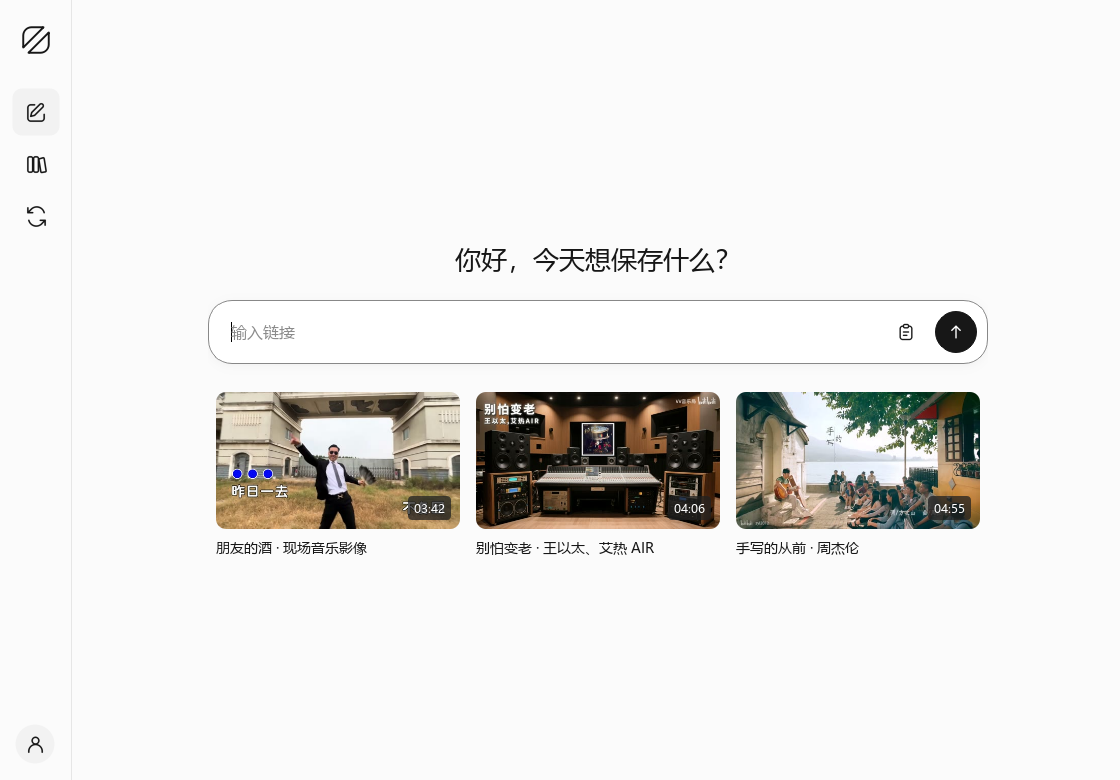
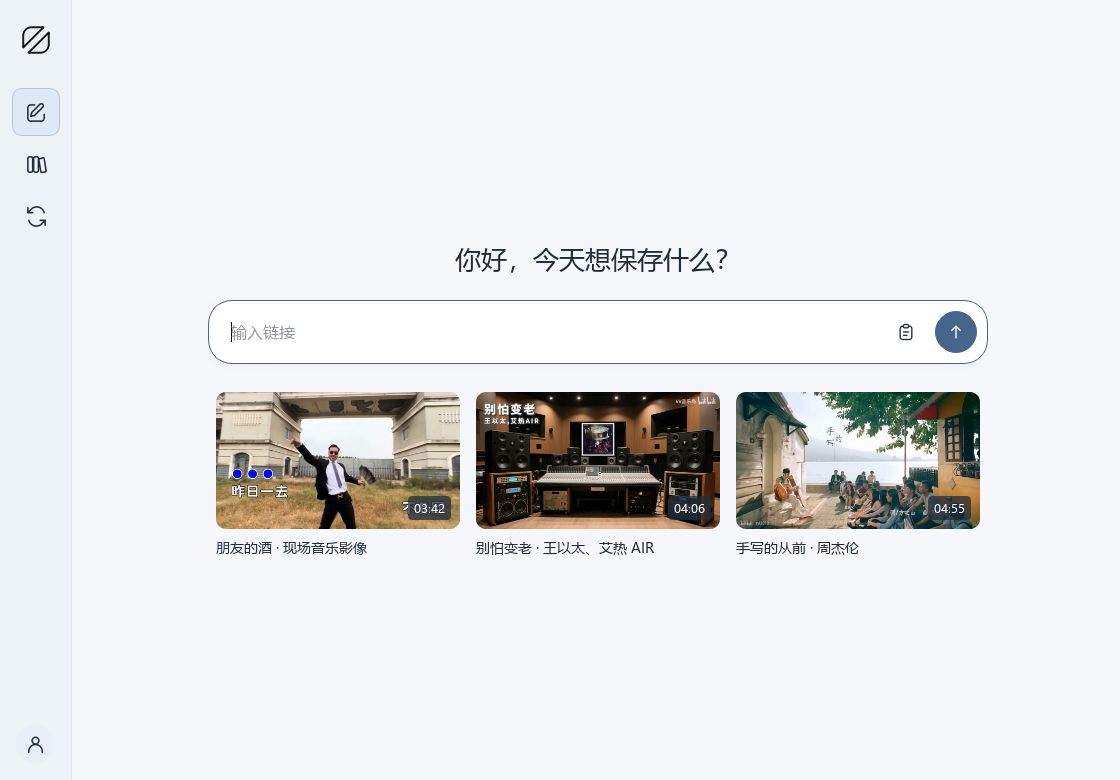
Release Windows 2.1.3 with blue-gray theme and aligned update controls

diff --git a/bilibili/ui_theme.py b/bilibili/ui_theme.py
@@ -8,16 +8,18 @@ from PySide6.QtSvg import QSvgRenderer
 
 ROOT = Path(__file__).resolve().parent
 COLORS = {
-    "background": "#fbfbfb", "sidebar_background": "#fbfbfb", "surface": "#ffffff",
-    "text": "#171717", "muted": "#696969", "subtle": "#757575",
-    "accent": "#171717", "accent_hover": "#333333", "accent_pressed": "#000000",
-    "border": "#e6e6e6", "hover": "#f2f2f2", "pressed": "#e8e8e8",
-    "tint": "#f0f0f0", "danger": "#262626", "danger_tint": "#f0f0f0",
-    "success": "#262626", "success_tint": "#f0f0f0",
-    "disabled": "#969696", "disabled_surface": "#f1f1f1",
-    "progress_track": "#eaeaea", "thumb": "#eeeeee", "video": "#151515",
-    "overlay": "#202020", "white": "#ffffff",
+    "background": "#f5f7fa", "sidebar_background": "#edf2f7", "surface": "#ffffff",
+    "text": "#202d3d", "muted": "#596b80", "subtle": "#66778b",
+    "accent": "#45658a", "accent_hover": "#365474", "accent_pressed": "#29425e",
+    "border": "#dce4ed", "hover": "#e9eff6", "pressed": "#d7e2ef",
+    "tint": "#dfe9f5", "danger": "#46576d", "danger_tint": "#e8edf3",
+    "success": "#426b66", "success_tint": "#e4f0ed",
+    "disabled": "#78889b", "disabled_surface": "#eaf0f5", "disabled_accent": "#91a3b8",
+    "progress_track": "#e2e9f1", "thumb": "#e6ecf3", "video": "#151b24",
+    "overlay": "#202d3d", "white": "#ffffff", "border_hover": "#b5c6da",
+    "scroll_thumb": "#b4c2d2", "scroll_hover": "#879db7",
 }
+
 SPACE = {"xs": 4, "sm": 8, "md": 12, "lg": 16, "xl": 20, "xxl": 24, "page": 32}
 METRICS = {
     "sidebar": 72, "page_inset": 40, "gap": SPACE["lg"],
@@ -43,7 +45,7 @@ RAIL = {"width": METRICS["sidebar"], "inset": 12, "top": 16, "bottom": 16,
         "title_fade": 16, "title_speed": 34, "title_pause_ms": 900, "title_gap": 48, "animation_ms": 33}
 UPDATE = {"dialog_width": 760, "dialog_height": 600, "dialog_min_width": 560,
           "dialog_min_height": 420, "scroll_gutter": 20, "notes_min_height": 120,
-          "notes_heading": 16, "notes_body": 14}
+          "notes_heading": 16, "notes_body": 14, "footer_font": 16}
 DIALOG = {"settings_width": 820, "settings_height": 680, "settings_min_width": 700,
           "settings_min_height": 560, "inset": 32, "search_width": 640, "search_height": 480,
           "search_min_width": 480, "search_min_height": 320, "search_row": 48}
@@ -65,7 +67,7 @@ def icon(name, color=None):
 
 
 def stylesheet():
-    values = {**COLORS, **METRICS, **HOME,
+    values = {**COLORS, **METRICS, **HOME, **UPDATE,
               # QSS sizes exclude the one-pixel border on both sides.
               "rail_button_size": RAIL["button_size"] - 2, "rail_account_size": RAIL["account_size"] - 2,
               "rail_account_radius": RAIL["account_radius"],
@@ -80,7 +82,7 @@ def stylesheet():
     QSplitter::handle {background: transparent;}
     QSplitter::handle:hover {background: %(border)s;}
     QFrame#sidebar {background: %(sidebar_background)s; border-right: 1px solid %(border)s;}
-    QFrame#iconRail {background: %(background)s; border: none; border-right: 1px solid %(border)s;}
+    QFrame#iconRail {background: %(sidebar_background)s; border: none; border-right: 1px solid %(border)s;}
     QLabel {background: transparent;}
     QLabel#brand {font-size: 16px; font-weight: 600;}
     QLabel#pageTitle {font-size: %(title)spx; font-weight: 600;}
@@ -104,12 +106,12 @@ def stylesheet():
     QLabel#iconBadge[tone="danger"] {background: %(danger_tint)s;}
     QFrame#panel, QFrame#taskPanel {background: %(surface)s; border: 1px solid %(border)s; border-radius: %(radius)spx;}
     QFrame#composer {background: %(surface)s; border: 1px solid %(border)s; border-radius: %(composer_radius)spx;}
-    QFrame#composer[focused="true"] {border-color: #888888;}
+    QFrame#composer[focused="true"] {border-color: %(accent)s;}
     QFrame#locationBar {background: transparent; border: none; border-top: 1px solid %(border)s;}
     QFrame#divider {background: %(border)s; border: none; max-height: 1px;}
     QPushButton, QToolButton {background: %(surface)s; border: 1px solid %(border)s; border-radius: %(control_radius)spx;
         padding: 9px 14px; min-height: 20px;}
-    QPushButton:hover, QToolButton:hover {background: %(hover)s; border-color: #dadada;}
+    QPushButton:hover, QToolButton:hover {background: %(hover)s; border-color: %(border_hover)s;}
     QPushButton:pressed, QToolButton:pressed {background: %(pressed)s;}
     QPushButton:focus, QToolButton:focus {border-color: %(accent)s;}
     QToolButton::menu-indicator {image: none;}
@@ -119,42 +121,44 @@ def stylesheet():
     QPushButton#primary:hover {background: %(accent_hover)s; border-color: %(accent_hover)s;}
     QPushButton#primary:pressed {background: %(accent_pressed)s;}
     QPushButton#primary:focus {border: 2px solid %(accent_pressed)s; padding: 8px 13px;}
-    QPushButton#primary:disabled {background: #aaaaaa; border-color: #aaaaaa;}
+    QPushButton#primary:disabled {background: %(disabled_accent)s; border-color: %(disabled_accent)s;}
     QPushButton#sendAction {background: %(accent)s; border: 1px solid %(accent)s; border-radius: %(action_radius)spx; padding: 0; min-height: 0;}
     QPushButton#sendAction:hover {background: %(accent_hover)s;}
-    QPushButton#sendAction:focus {border: 2px solid #777777;}
+    QPushButton#sendAction:focus {border: 2px solid %(accent_hover)s;}
     QPushButton#sendAction:pressed {background: %(accent_pressed)s;}
     QToolButton#pasteAction, QToolButton#menuButton {background: transparent; border: 1px solid transparent; padding: 0; min-height: 0; border-radius: 10px;}
     QToolButton#pasteAction:hover, QToolButton#menuButton:hover {background: %(hover)s;}
-    QToolButton#pasteAction:focus, QToolButton#menuButton:focus {border-color: #888888;}
+    QToolButton#pasteAction:focus, QToolButton#menuButton:focus {border-color: %(accent)s;}
     QToolButton#menuButton {min-height: %(rail_button_size)spx; max-height: %(rail_button_size)spx;
         min-width: %(rail_button_size)spx; max-width: %(rail_button_size)spx;}
     QToolButton#railButton {background: transparent; border: 1px solid transparent; border-radius: 10px; padding: 0;
         min-height: %(rail_button_size)spx; max-height: %(rail_button_size)spx;
         min-width: %(rail_button_size)spx; max-width: %(rail_button_size)spx;}
-    QToolButton#railButton:hover, QToolButton#railButton:checked {background: %(hover)s;}
+    QToolButton#railButton:hover {background: %(hover)s;}
+    QToolButton#railButton:checked {background: %(tint)s; border-color: %(border_hover)s;}
     QToolButton#railButton:pressed {background: %(pressed)s;}
-    QToolButton#railButton:focus {border-color: #888888;}
+    QToolButton#railButton:focus {border-color: %(accent)s;}
     QToolButton#accountButton {background: %(hover)s; border: 1px solid transparent; border-radius: %(rail_account_radius)spx; padding: 0;
         min-height: %(rail_account_size)spx; max-height: %(rail_account_size)spx;
         min-width: %(rail_account_size)spx; max-width: %(rail_account_size)spx;}
     QToolButton#accountButton:hover {background: %(pressed)s;}
-    QToolButton#accountButton:focus {border-color: #888888;}
+    QToolButton#accountButton:focus {border-color: %(accent)s;}
     QToolButton#sidebarAction {background: transparent; border: 1px solid transparent; border-radius: 8px; padding: 0;
         min-width: %(sidebar_action_size)spx; max-width: %(sidebar_action_size)spx;
         min-height: %(sidebar_action_size)spx; max-height: %(sidebar_action_size)spx;}
     QToolButton#sidebarAction:hover {background: %(hover)s;}
-    QToolButton#sidebarAction:focus {border-color: #888888;}
+    QToolButton#sidebarAction:focus {border-color: %(accent)s;}
     QToolButton#sidebarNav, QToolButton#sidebarAccount {background: transparent; border: 1px solid transparent;
         border-radius: 8px; padding: 0 12px; text-align: left;
         min-height: %(sidebar_row_height)spx; max-height: %(sidebar_row_height)spx;}
-    QToolButton#sidebarNav:hover, QToolButton#sidebarNav:checked, QToolButton#sidebarAccount:hover {background: %(hover)s;}
-    QToolButton#sidebarNav:focus, QToolButton#sidebarAccount:focus {border-color: #888888;}
+    QToolButton#sidebarNav:hover, QToolButton#sidebarAccount:hover {background: %(hover)s;}
+    QToolButton#sidebarNav:checked {background: %(tint)s; color: %(accent_pressed)s; font-weight: 600;}
+    QToolButton#sidebarNav:focus, QToolButton#sidebarAccount:focus {border-color: %(accent)s;}
     QListWidget#sidebarRecent, QListWidget#searchResults {background: transparent; border: none; outline: none; padding: 0;}
     QListWidget#sidebarRecent::item, QListWidget#searchResults::item {border: 1px solid transparent; border-radius: 8px; padding: 0 12px;}
     QListWidget#sidebarRecent::item:hover, QListWidget#searchResults::item:hover {background: %(hover)s;}
     QListWidget#sidebarRecent::item:selected, QListWidget#searchResults::item:selected {background: %(tint)s; color: %(text)s;}
-    QListWidget#sidebarRecent::item:focus, QListWidget#searchResults::item:focus {border-color: #888888;}
+    QListWidget#sidebarRecent::item:focus, QListWidget#searchResults::item:focus {border-color: %(accent)s;}
     QPushButton#nav {border: 1px solid transparent; background: transparent; text-align: left; padding: 11px 12px;}
     QPushButton#nav:hover {background: %(pressed)s;}
     QPushButton#nav:checked {background: %(surface)s; color: %(accent)s; border-color: %(border)s; font-weight: 600;}
@@ -162,11 +166,14 @@ def stylesheet():
     QPushButton#link {background: transparent; border: 1px solid transparent; color: %(accent)s; padding: 6px 4px;}
     QPushButton#link:hover {background: %(tint)s; color: %(accent_hover)s;}
     QPushButton#link:focus {border-color: %(accent)s;}
+    QPushButton#updateLink {background: transparent; border: 1px solid transparent; font-size: %(footer_font)spx; padding: 9px 12px;}
+    QPushButton#updateLink:hover {background: %(hover)s;}
+    QPushButton#updateLink:focus {border-color: %(accent)s;}
     QToolButton#settings {background: transparent; padding: 9px;}
     QLineEdit, QComboBox, QPlainTextEdit, QTextBrowser {
         background: %(surface)s; border: 1px solid %(border)s; border-radius: %(control_radius)spx; padding: 9px 12px;
         selection-background-color: %(accent)s; selection-color: white;}
-    QLineEdit:hover, QComboBox:hover {border-color: #cecece;}
+    QLineEdit:hover, QComboBox:hover {border-color: %(border_hover)s;}
     QLineEdit:focus, QComboBox:focus, QPlainTextEdit:focus, QTextBrowser:focus {border-color: %(accent)s;}
     QLineEdit#linkInput {font-size: 16px; padding: 8px 10px; background: transparent; border: none;}
     QLineEdit#searchInput {padding-left: 6px;}
@@ -182,7 +189,7 @@ def stylesheet():
     QProgressBar[tone="success"]::chunk {background: %(success)s;}
     QProgressBar[tone="danger"]::chunk {background: %(danger)s;}
     QCheckBox {spacing: 10px;}
-    QCheckBox::indicator {width: 17px; height: 17px; border: 1px solid #bfbfbf; border-radius: 4px; background: white;}
+    QCheckBox::indicator {width: 17px; height: 17px; border: 1px solid %(border_hover)s; border-radius: 4px; background: white;}
     QCheckBox::indicator:checked {background: %(accent)s; border-color: %(accent)s; image: url("%(checkmark)s");}
     QCheckBox::indicator:focus {border: 2px solid %(accent)s;}
     QCheckBox::indicator:disabled {background: %(disabled_surface)s; border-color: %(border)s;}
@@ -196,8 +203,8 @@ def stylesheet():
     QListWidget#assetList::item:selected {background: %(tint)s; color: %(accent)s;}
     QScrollArea {border: none; background: transparent;}
     QScrollBar:vertical {background: transparent; width: 8px; margin: 0;}
-    QScrollBar::handle:vertical {background: #cdcdcd; border-radius: 4px; min-height: 32px;}
-    QScrollBar::handle:vertical:hover {background: #b3b3b3;}
+    QScrollBar::handle:vertical {background: %(scroll_thumb)s; border-radius: 4px; min-height: 32px;}
+    QScrollBar::handle:vertical:hover {background: %(scroll_hover)s;}
     QScrollBar::add-line:vertical, QScrollBar::sub-line:vertical {height: 0;}
     QScrollBar::add-page:vertical, QScrollBar::sub-page:vertical {background: transparent;}
     QMenu {background: %(surface)s; border: 1px solid %(border)s; padding: 5px;}

diff --git a/bilibili/updater.py b/bilibili/updater.py
@@ -12,7 +12,7 @@ import threading
 import time
 import uuid
 
-from PySide6.QtCore import QObject, QThread, QTimer, QUrl, Qt, Signal
+from PySide6.QtCore import QObject, QThread, QTimer, QUrl, Qt, Signal, QEvent, QPoint
 from PySide6.QtGui import QDesktopServices, QTextCursor, QTextCharFormat, QTextFormat, QTextBlockFormat
 from PySide6.QtWidgets import QDialog, QHBoxLayout, QMessageBox, QPushButton, QProgressBar, QScrollArea, QStackedWidget, QTextBrowser, QVBoxLayout, QWidget
 from app_version import APP_VERSION, RELEASE_PAGE, REPOSITORY
@@ -138,7 +138,7 @@ class UpdatePage(QWidget):
         right = QVBoxLayout()
         right.setSpacing(SPACE["xs"])
         right.addWidget(text_label("最新版本", role="muted"))
-        self.latest = text_label("尚未检查", role="sectionTitle")
+        self.latest = text_label("尚未检查", role="display")
         right.addWidget(self.latest)
         row.addLayout(right, 1)
         self.check_button = QPushButton("检查更新")
@@ -182,6 +182,8 @@ class UpdatePage(QWidget):
         self.transfer_panel.hide()
         layout.insertWidget(1, self.transfer_panel)
         actions = QHBoxLayout()
+        self.footer_actions = actions
+        actions.setContentsMargins(1, 0, UPDATE["scroll_gutter"], 0)
         self.download_button = QPushButton("下载更新")
         self.download_button.setObjectName("primary")
         self.download_button.hide()
@@ -200,15 +202,22 @@ class UpdatePage(QWidget):
         outer.addLayout(actions)
         links = QHBoxLayout()
         self.github_button = QPushButton("开源项目")
-        self.github_button.setObjectName("link")
+        self.github_button.setObjectName("updateLink")
         self.github_button.clicked.connect(lambda: QDesktopServices.openUrl(QUrl(f"https://github.com/{REPOSITORY}")))
         links.addWidget(self.github_button)
         self.releases_button = QPushButton("历史版本")
-        self.releases_button.setObjectName("link")
+        self.releases_button.setObjectName("updateLink")
         self.releases_button.clicked.connect(lambda: QDesktopServices.openUrl(QUrl(RELEASE_PAGE)))
         links.addWidget(self.releases_button)
-        links.addStretch()
+        links.setSpacing(SPACE["md"])
         actions.addLayout(links)
+        scroll.viewport().installEventFilter(self)
+
+    def eventFilter(self, watched, event):
+        if watched is self.scroll.viewport() and event.type() == QEvent.Resize:
+            viewport_right = watched.mapTo(self, QPoint(watched.width(), 0)).x()
+            self.footer_actions.setContentsMargins(1, 0, max(0, self.width() - viewport_right) + UPDATE["scroll_gutter"], 0)
+        return super().eventFilter(watched, event)
 
 
 class UpdateJob(QThread):

diff --git a/bilibili/preview_ui.py b/bilibili/preview_ui.py
@@ -96,9 +96,9 @@ def capture_review(app, window, directory):
         check("idle_task_hidden", not window.download_page.task_panel.isVisible())
         visible_texts = [label.text() for label in window.findChildren(QLabel) if label.isVisible() and label.text()]
         check("home_has_only_requested_copy", visible_texts == [window.download_page.greeting.text()])
-        check("chrome_is_monochrome", all(color[1:3] == color[3:5] == color[5:7] for color in COLORS.values()))
+        check("chrome_uses_blue_gray_palette", COLORS["accent"] == "#45658a" and COLORS["surface"] == "#ffffff")
         send = window.download_page.submit.grab()
-        check("submit_button_is_black", send.toImage().pixelColor(round(6 * send.devicePixelRatioF()), round(21 * send.devicePixelRatioF())).name() == COLORS["accent"])
+        check("submit_button_uses_primary_accent", send.toImage().pixelColor(round(6 * send.devicePixelRatioF()), round(21 * send.devicePixelRatioF())).name() == COLORS["accent"])
         rects = [window.download_page.recent.visualItemRect(window.download_page.recent.item(i)) for i in range(3)]
         check("three_home_previews_share_one_row", len({rect.y() for rect in rects}) == 1 and all(rect.width() > 150 for rect in rects))
         QTest.mouseClick(window.menu_button, Qt.LeftButton)

diff --git a/bilibili/qa/install_probe.py b/bilibili/qa/install_probe.py
@@ -27,7 +27,7 @@ for folder in (cache, output, data / "WebProfile"):
 baseline = args.baseline.resolve()
 assert baseline.is_relative_to(root.resolve())
 baseline_version = json.loads((baseline / "_internal/version.json").read_text())["version"]
-assert baseline_version in {"1.0.4", "2.0.0", "2.1.0", "2.1.1"}, baseline_version
+assert baseline_version in {"1.0.4", "2.0.0", "2.1.0", "2.1.1", "2.1.2"}, baseline_version
 shutil.copytree(baseline, app)
 fixture = root / "build/v2-fixtures/sample.mp4"
 history = output / "原有的视频.mp4"

diff --git a/bilibili/DESIGN.md b/bilibili/DESIGN.md
@@ -1,12 +1,12 @@
-# Windows 黑白 UI 约定
+# Windows 蓝灰 UI 约定
 
 本轮为 Windows 2.1.1 原生 Qt / PySide6 桌面端，大人已检查并授权发布目录迁移、侧栏适配和删除功能，最后确认长标题从右向左单向循环。遵守根目录 AGENTS.md 中大人明确确认的 UI 偏好。Android 保持 1.0.4。
 
 ## 首页与导航
 
-默认 1120×780，最小 860×620。背景近白，文字与交互使用黑白灰，媒体内容保留原色。颜色、字号、间距和组件尺寸统一定义在 ui_theme.py。
+默认 1120×780，最小 860×620。背景为浅蓝灰，侧栏使用更深一层的淡蓝灰，内容区为白色；主按钮、选中导航和进度使用深蓝灰，成功状态使用低饱和青灰，文字为深蓝黑，媒体内容保留原色。颜色、字号、间距和组件尺寸统一定义在 ui_theme.py。
 
-首页内容居中，最大宽度 780px：一句问候、一个链接输入框、右侧独立粘贴图标和黑色箭头按钮，下方并排展示最近三个真实作品缩略图。标题只作为作品内容显示，时长位于封面角落；不增加平台徽章、日期、体积、快捷键教程、目录栏、口号或说明副标题。没有任务时隐藏整个任务区域，没有作品时不生成虚假缩略图。
+首页内容居中，最大宽度 780px：一句问候、一个链接输入框、右侧独立粘贴图标和深蓝灰箭头按钮，下方并排展示最近三个真实作品缩略图。标题只作为作品内容显示，时长位于封面角落；不增加平台徽章、日期、体积、快捷键教程、目录栏、口号或说明副标题。没有任务时隐藏整个任务区域，没有作品时不生成虚假缩略图。
 
 左侧默认 72px 窄图标栏，以细竖线分隔内容区。顶部为原创折帧线条 Logo，下方只保留下载、视频库和更新三个入口，移除收起状态的独立搜索图标，底部为灰阶账号 / 设置入口。默认不展示文字标签，通过悬停提示与无障碍名称识别。点击 Logo 后，整个全高侧栏展开到 280px，显示导航名称、真实最近作品以及底部设置入口；顶部提供搜索和收起按钮。展开是主窗口布局的一部分，不弹小菜单。两个状态共享当前页面和导航选中状态。
 
@@ -14,9 +14,9 @@
 
 ## 输入与真实状态
 
-粘贴按钮、Ctrl+V 和右键粘贴仅填入内容。点击黑色箭头或按 Enter 后验证并排队，同一规范化链接去重。不监听全局剪贴板，不在输入未完成时下载。
+粘贴按钮、Ctrl+V 和右键粘贴仅填入内容。点击深蓝灰箭头或按 Enter 后验证并排队，同一规范化链接去重。不监听全局剪贴板，不在输入未完成时下载。
 
-有实际任务时才在输入框下方显示标题、状态、进度与必要操作。解析、下载和合并在独立后台进程执行；实际字节、速度和剩余时间来自原服务，未知总量不生成假百分比。失败、取消、完成以文字和图形区分，使用灰阶。失败或取消后不显示继续下载的速度与 ETA，保留重试与登录入口。
+有实际任务时才在输入框下方显示标题、状态、进度与必要操作。解析、下载和合并在独立后台进程执行；实际字节、速度和剩余时间来自原服务，未知总量不生成假百分比。失败、取消、完成以文字和图形区分，使用低饱和状态色与文字。失败或取消后不显示继续下载的速度与 ETA，保留重试与登录入口。
 
 ## 作品与弹窗
 
@@ -28,7 +28,7 @@
 
 首次安装选择下载目录；软件设置与库底部均可更改。更改时停止接收新下载，后台复制并逐个 SHA-256 校验，原子写入设置并更新原记录路径，再删除校验一致的原文件和本次迁移涉及的空目录。视频、图文、配乐、回执与下载临时文件一起迁移；同名目标不覆盖，无法找到的旧作品记录继续保留。复制阶段可取消；重启后根据持久化迁移记录恢复。被占用的原文件留待继续清理，其他个人文件与未参与迁移的目录保留。
 
-设置默认 820×680，最小 700×560，保留原生窗口缩放和右下角拖动手柄；内容可滚动，底部操作固定可见，下载位置位于第一项。设置、播放器、图文查看器、更新和日志统一灰阶控件。图文文件显示“图片 01”等可读名称，原文件名保留在提示。软件内播放器保留暂停、进度、音量、全屏和默认播放器恢复入口。
+设置默认 820×680，最小 700×560，保留原生窗口缩放和右下角拖动手柄；内容可滚动，底部操作固定可见，下载位置位于第一项。设置、播放器、图文查看器、更新和日志统一蓝灰控件。图文文件显示“图片 01”等可读名称，原文件名保留在提示。软件内播放器保留暂停、进度、音量、全屏和默认播放器恢复入口。
 
 更新页保留真实版本、官方说明、字节进度、校验和独立安装助手。更新检查和下载安装行为不随视觉修改改变；安装仍要求确认。紧凑窗口可滚动查看内容。
 
@@ -41,3 +41,7 @@ app.svg 为用户确认发布的原创折帧标志：两片对称的圆角折面
 使用既有 Qt 流程做真实截图与事件检查，覆盖 100%、150%、200% 缩放、默认/紧凑/宽窗口、侧栏收起展开、独立搜索、设置缩放、粘贴与提交、错误、空状态和内置播放。当前结果与运行方式见 UI_REVIEW.md。未经大人确认，不打包发布或上线；历史 v2 交付报告不代表本轮安装包已重新验收。
 
 更新弹窗默认 760×600、最小 560×420，并按屏幕工作区限制初始大小，支持拖动缩放。发布说明共用正文排版，限制 Markdown 标题字号；更新页说明随内容增高，只用外层滚动，卡片右侧与滚动条留 20px 间隔，底部操作固定单行。剩余时间以 10 秒采样窗口与时间加权平滑估算，每秒更新；初始显示估算中，5 秒无数据显示等待网络，重试重置估算。
+
+更新页当前版本与最新版本共用 display 字号和字重，并保持相同基线。底部开源项目与历史版本使用 16px 文本入口，固定靠右，与卡片右边界对齐；滚动条出现或消失时同步调整，不使用两侧重复弹性留白。
+
+2026-10-22：大人暂停 2.1.3 发布并确认蓝灰色重设计。沿用轻量布局、黑白原创 Logo 和简洁文案，颜色统一由 ui_theme.py 管理。新主题需先检查本地预览，再授权发布。

diff --git a/AGENTS.md b/AGENTS.md
@@ -4,9 +4,9 @@
 
 以下是大人明确提出的偏好，优先于下方通用设计建议：
 
-- 整体使用黑、白、灰，简约、大气、安静；不要红色、粉色或其他彩色强调。
+- 整体简约、大气、安静；2026-10-22 大人最新确认采用蓝灰色，允许克制的色彩层次，不再要求全黑白。浅蓝灰背景、白色内容区，深蓝灰用于主操作、选中导航与进度；避免红色、粉色和多种高饱和强调色。
 - 图标要重新设计成统一的简洁黑白图形，不使用 emoji，不照搬其他产品的品牌标志。
-- Windows 软件首页参考本次提供的 ChatGPT 首页截图：居中的一句问候，下方一个链接输入框，输入框右侧为黑色提交按钮，旁边保留独立粘贴按钮。
+- Windows 软件首页参考本次提供的 ChatGPT 首页截图：居中的一句问候，下方一个链接输入框，输入框右侧为深蓝灰提交按钮，旁边保留独立粘贴按钮。
 - 首页下方并排展示最近的三个真实作品缩略图，保持轻量，不增加卡片说明、体积、日期等冗余信息。
 - 左侧参考 ChatGPT 的收起 / 展开交互：默认是顶部 Logo、竖排功能图标和底部账号 / 设置入口组成的窄栏；点击左上角图标展开整条全高侧栏，显示导航名称与最近作品，可再次收起。不要把展开导航做成小菜单。两种状态都以细竖线与主内容分隔。
 - 收起的窄栏只保留下载、视频库、更新三个功能图标，去掉独立搜索图标；展开后的顶部搜索与视频库内搜索继续保留。

diff --git a/bilibili/packaging/docs/validation.md b/bilibili/packaging/docs/validation.md
@@ -1,11 +1,12 @@
-# Windows 2.1.2 发布验收
+# Windows 2.1.3 发布验收
 
-2026-10-22，用户检查更新界面预览后授权发布。Android 保持 1.0.4。
+2026-10-22，用户确认蓝灰主题预览后授权发布。Android 保持 1.0.4。
 
 - 75 项单元检查通过。
 - 16 项真实 Qt 更新流程检查通过，覆盖后台检查、提醒、取消、重试、校验失败与未知文件长度。
+- 三档缩放各 41 项界面检查通过；正文、次要文字与主按钮对比度达到 4.5:1。
 - 更新设计专项覆盖宽窗口、紧凑窗口、单层滚动、剩余时间波动、断流与重试重置；100%、150%、200% 缩放检查通过。
-- 发布前使用独立 AppId 安装器与冻结更新助手验证 2.1.1 副本升级，保留视频字节、设置、登录资料与历史记录。
+- 发布前使用独立 AppId 安装器与冻结更新助手验证 2.1.2 副本升级，保留视频字节、设置、登录资料与历史记录。
 - 发布后读回公开安装包摘要、版本清单和应用更新检测。
 
-本轮仅调整更新界面和下载估算，既有存储、删除及播放器验收记录见 `bilibili/STORAGE_REVIEW.md`。测试使用隔离数据，未用用户媒体做删除或迁移测试；未覆盖 Windows 10 实机与多屏热切换。
+本轮统一蓝灰配色、版本号排版与底部入口对齐，既有存储、删除及播放器验收记录见 `bilibili/STORAGE_REVIEW.md`。测试使用隔离数据，未用用户媒体做删除或迁移测试；未覆盖 Windows 10 实机与多屏热切换。

diff --git a/docs/validation.md b/docs/validation.md
@@ -1,11 +1,12 @@
-# Windows 2.1.2 发布验收
+# Windows 2.1.3 发布验收
 
-2026-10-22，用户检查更新界面预览后授权发布。Android 保持 1.0.4。
+2026-10-22，用户确认蓝灰主题预览后授权发布。Android 保持 1.0.4。
 
 - 75 项单元检查通过。
 - 16 项真实 Qt 更新流程检查通过，覆盖后台检查、提醒、取消、重试、校验失败与未知文件长度。
+- 三档缩放各 41 项界面检查通过；正文、次要文字与主按钮对比度达到 4.5:1。
 - 更新设计专项覆盖宽窗口、紧凑窗口、单层滚动、剩余时间波动、断流与重试重置；100%、150%、200% 缩放检查通过。
-- 发布前使用独立 AppId 安装器与冻结更新助手验证 2.1.1 副本升级，保留视频字节、设置、登录资料与历史记录。
+- 发布前使用独立 AppId 安装器与冻结更新助手验证 2.1.2 副本升级，保留视频字节、设置、登录资料与历史记录。
 - 发布后读回公开安装包摘要、版本清单和应用更新检测。
 
-本轮仅调整更新界面和下载估算，既有存储、删除及播放器验收记录见 `bilibili/STORAGE_REVIEW.md`。测试使用隔离数据，未用用户媒体做删除或迁移测试；未覆盖 Windows 10 实机与多屏热切换。
+本轮统一蓝灰配色、版本号排版与底部入口对齐，既有存储、删除及播放器验收记录见 `bilibili/STORAGE_REVIEW.md`。测试使用隔离数据，未用用户媒体做删除或迁移测试；未覆盖 Windows 10 实机与多屏热切换。

diff --git a/bilibili/README.md b/bilibili/README.md
@@ -1,4 +1,4 @@
-# 视频下载器 Windows v2.1.2
+# 视频下载器 Windows v2.1.3
 
 原生 Qt / PySide6 桌面应用，支持 Bilibili、抖音、X。自动选择当前权限下最高可用画质与音质，完成检查后入库；保留抖音图文、实况与配乐。Android 客户端本次保持 v1.0.4。
 
@@ -6,7 +6,7 @@
 
 Windows 10 / 11 x64 双击项目根目录 `release/VideoDownloader-Windows-Setup.exe`，安装到原目录即可升级。安装包内含运行环境、FFmpeg、Qt 播放和网页登录组件，无需安装 Python。
 
-Windows v2.1.2 使用黑白简约界面和全新品牌图标。可双击同目录的“预览新版UI.bat”打开隔离的设计预览，细节见 [UI 验收记录](UI_REVIEW.md)。
+Windows v2.1.3 使用黑白简约界面和全新品牌图标。可双击同目录的“预览新版UI.bat”打开隔离的设计预览，细节见 [UI 验收记录](UI_REVIEW.md)。
 
 本轮支持目录迁移、可调侧栏、单向循环长标题与文件删除，播放器可独立切换和最小化、最大化。检查方式与本轮记录见 [存储和删除验收](STORAGE_REVIEW.md)。
 

diff --git a/release/RELEASE_NOTES.md b/release/RELEASE_NOTES.md
@@ -1,8 +1,8 @@
-# 视频下载器 Windows v2.1.2
+# 视频下载器 Windows v2.1.3
 
-- 更新弹窗放大，支持调整窗口大小，更新说明使用统一字号与行距。
-- 更新页面只保留一层滚动，卡片与滚动条留出间距，底部操作固定可见。
-- 下载剩余时间改为平滑估算，每秒刷新；网络暂时无数据时显示等待网络。
+- 全新蓝灰主题：浅蓝灰背景、白色内容区，主按钮、选中导航与进度使用统一蓝灰色。
+- 当前版本与最新版本统一字号、字重和对齐方式。
+- 放大开源项目、历史版本入口，固定靠右并与卡片边缘对齐，适配窗口与滚动条变化。
 
 安装到原目录即可升级，保存位置、视频、历史记录与登录资料继续保留。
 
